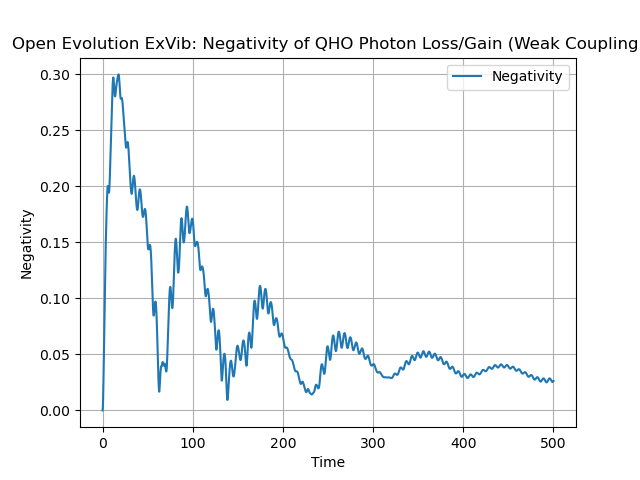
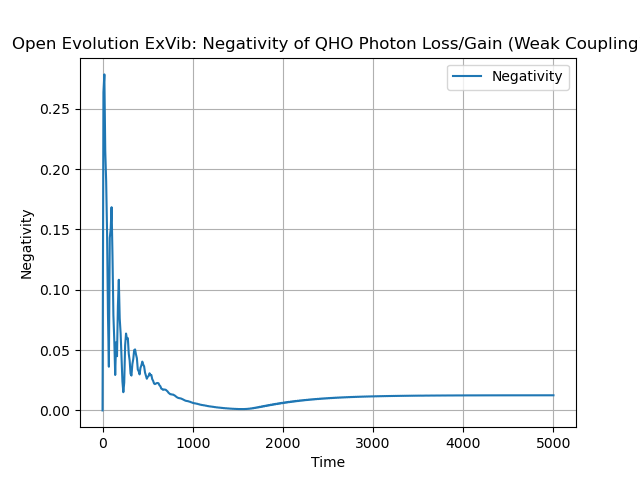
Improves open simulation graphs for exciton-vibration hamiltonian.

diff --git a/Research Project/Code/ExVib_Open_eg.py b/Research Project/Code/ExVib_Open_eg.py
@@ -1,14 +1,7 @@
 from TLSQHOSimulator import TLSQHOSimulator
 import qutip as q
 import numpy as np
-import math
-
-
-from TLSQHOSimulator import TLSQHOSimulator
-import qutip as q
-import numpy as np
-import math
-
+import math 
 
 ############################## SETUP ######################################
 
@@ -17,7 +10,8 @@ import math
 # g = (0.0578)^0.5 = 267 cm^-1
 # Moreover, T ~ 300K room temp expt.
 
-tlist = np.linspace(0.0, 500.0, 2000)  # units of 1/hbar omega
+tlist = np.linspace(0.0, 5000.0, 500)  # units of 1/hbar omega
+
 
 # constants, cm^-1
 w = 1.0

diff --git a/Research Project/Code/ExVib_Open.py b/Research Project/Code/ExVib_Open.py
@@ -11,7 +11,7 @@ import math
 # g = (0.0578)^0.5 = 267 cm^-1
 # Moreover, T ~ 300K room temp expt.
 
-tlist = np.linspace(0.0, 500.0, 2000)  # units of 1/hbar omega
+tlist = np.linspace(0.0, 5000.0, 500)  # units of 1/hbar omega
 
 # constants, cm^-1
 w = 1.0
